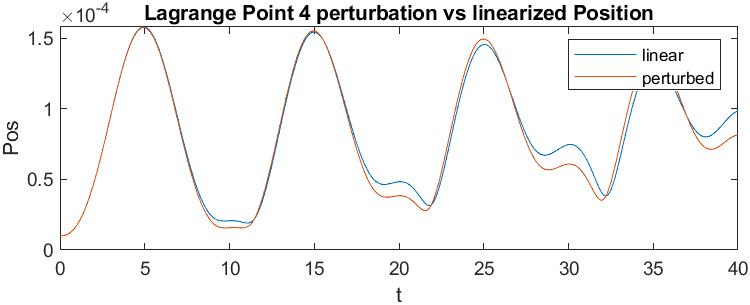
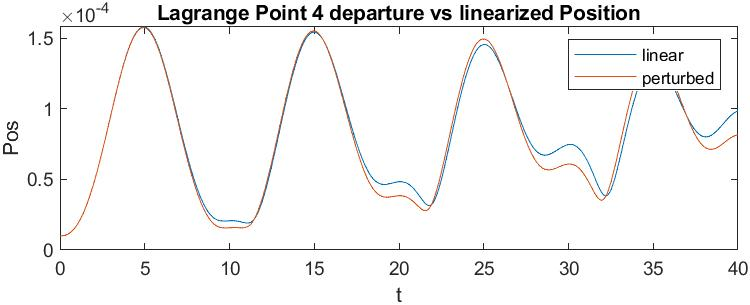
fixing lagrange point 4

Changed region(s): [[0.184, 0.0, 0.8893, 0.0885]]

diff --git a/AERSP304_Proj1.m b/AERSP304_Proj1.m
@@ -67,22 +67,6 @@ ylabel('departure velocity');
 
 % exportgraphics(ax,'L2_PerturbedVel.jpg')
 
-%{ 
-linear comparison plot L2
-figure
-subplot(2,1,1)
-plot(t,linPos);
-hold on 
-plot(t,departX(:,1));
-hold off
-title('Lagrange Point 2 perturbation vs linearized Position')
-xlabel('t')
-ylabel('Pos')
-legend('linear','perturbed')
-ax = gca ;
-exportgraphics(ax,'L2_LinearPos.jpg')
-%}
-
 % plots linearized solution and departure solution vs time
 figure
 subplot(2,1,1)
@@ -107,36 +91,6 @@ ylabel('Vel')
 legend('linear','departure')
 ax = gca ;
 
-%{ 
-linear comparison plot L2
-figure
-subplot(2,1,1)
-plot(t,linPos);
-hold on 
-plot(t,departX(:,1));
-hold off
-title('Lagrange Point 2 perturbation vs linearized Position')
-xlabel('t')
-ylabel('Pos')
-legend('linear','perturbed')
-ax = gca ;
-exportgraphics(ax,'L2_LinearPos.jpg')
-%}
-
-%{
-subplot(2,1,2)
-plot(t,linVel);
-hold on 
-plot(t,departX(:,1));
-hold off
-title('Lagrange Point 2 perturbation vs linearized Velocity')
-xlabel('t')
-ylabel('Vel')
-legend('linear','perturbed')
-ax = gca ;
-exportgraphics(ax,'L2_LinearVel.jpg')
-%}
-
 
 
 %% Lagrange Point 4
@@ -158,18 +112,11 @@ end
 initP = x0'+perturbation';
 options = odeset('reltol',1e-12,'abstol',1e-12);
 [t,xP] = ode45(@(t,x) odefun(t,x,MU1), t, initP , options);
-%{
-xP = x - xP ;
-departX(:,1) = sqrt(xP(:,1).^2+xP(:,2).^2);
-departX(:,2) = sqrt(xP(:,3).^2+xP(:,4).^2);
-%}
+
 deltax = xP - x;
 deltaxpos = sqrt((deltax(:,1)).^2+(deltax(:,2)).^2);
 deltaxvel = sqrt((deltax(:,3)).^2+(deltax(:,4)).^2);
-figure
-plot(t,deltaxpos);      % Plots departure postion vs time
-figure
-plot(t,deltaxvel);      % Plots departure velocity vs time
+
 
 % Linearized
 [linPos,linVel] = linearizer(initP(1), initP(2) , t, MU1, pnts, perturbation) ;
@@ -192,35 +139,26 @@ ylabel('YN(t)');
 ax = gca ;
 exportgraphics(ax,'L4_Nframe.jpg')
 
-% plots the perturbed case delta x for both position and velocity for L4
-%{
+% plots departure postion and velocity vs time
 figure
-subplot(2,1,1)
-plot (t, departX(:,1))
-title('Lagrange Point 4 pertubation position')
-xlabel('t')
-ylabel('delta x')
-ax = gca ;
-exportgraphics(ax,'L4_PerturbedPos.jpg')
-subplot(2,1,2)
-plot (t, departX(:,2))
-title('Lagrange Point 4 pertubation velocity')
-xlabel('t')
-ylabel('delta x')
-ax = gca ;
-exportgraphics(ax,'L4_PerturbedVel.jpg')
-%}
-
-
+plot(t,deltaxpos);      % Plots departure postion vs time
+xlabel('time');
+ylabel('departure position');
+title('Lagrange point 4, departure position vs time');
+figure
+plot(t,deltaxvel);      % Plots departure velocity vs time
+xlabel('time');
+ylabel('departure velocity');
+title('Lagrange point 4, departure velocity vs time');
 
 % linear comparison plot L4
 figure
 subplot(2,1,1)
 plot(t,linPos);
 hold on 
-plot(t,departX(:,1));
+plot(t,deltaxpos);
 hold off
-title('Lagrange Point 4 perturbation vs linearized Position')
+title('Lagrange Point 4 departure vs linearized Position')
 xlabel('t')
 ylabel('Pos')
 legend('linear','perturbed')
@@ -230,9 +168,9 @@ exportgraphics(ax,'L4_LinearPos.jpg')
 subplot(2,1,2)
 plot(t,linVel);
 hold on 
-plot(t,departX(:,1));
+plot(t,deltaxvel);
 hold off
-title('Lagrange Point 4 perturbation vs linearized Velocity')
+title('Lagrange Point 4 departure vs linearized Velocity')
 xlabel('t')
 ylabel('Vel')
 legend('linear','perturbed')
